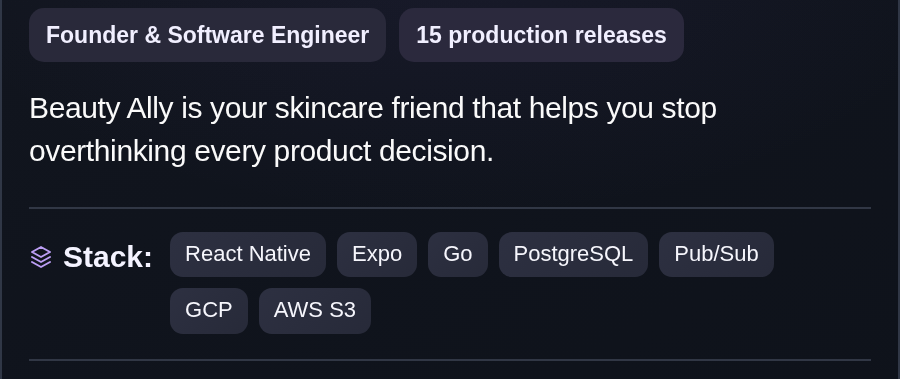
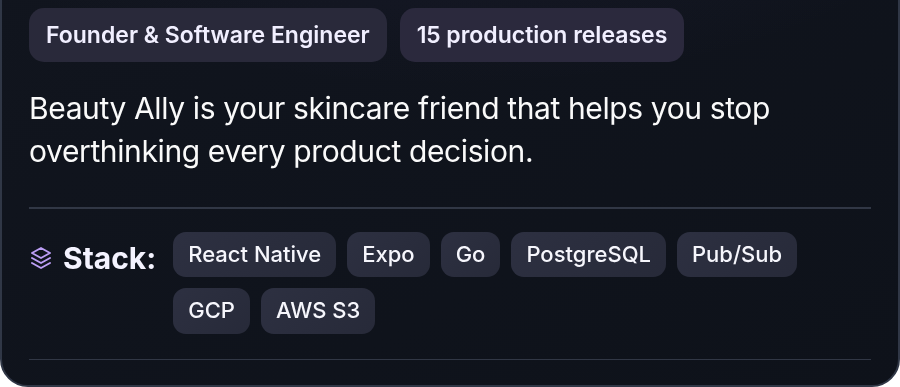
Add files via upload

diff --git a/README.md b/README.md
@@ -1,4 +1,4 @@
-<h3><picture><source media="(prefers-color-scheme: light)" srcset="assets/headings/intro-light.svg"><img src="assets/headings/intro-dark.svg" alt="Hey, I&#x27;m Alex 👋"></picture></h3>
+# Hey, I'm Alex 👋
 
 **Software Engineer · Go & TypeScript · Backend / Full-Stack**
 
@@ -7,30 +7,49 @@
 
 I'm a **product-minded software engineer** who enjoys building things end to end, from understanding the problem to designing the system, writing the code, and shipping it to real users.
 
-<h3><picture><source media="(prefers-color-scheme: light)" srcset="assets/headings/connect-light.svg"><img src="assets/headings/connect-dark.svg" alt="Connect with me"></picture></h3>
+## Connect with me
 
 <p align="center">
   <a href="mailto:alexprimak998@gmail.com"><img alt="Email" src="https://img.shields.io/badge/EMAIL-2563EB?style=for-the-badge&amp;logo=gmail&amp;logoColor=white"></a>
-  <a href="https://x.com/alexprimak24"><img alt="X / Twitter" src="https://img.shields.io/badge/TWITTER-000000?style=for-the-badge&amp;logo=x&amp;logoColor=white"></a>
-  <a href="https://www.linkedin.com/in/oleksandr-prymak-dev/"><img alt="LinkedIn" src="assets/icons/linkedin-button.svg" height="28"></a>
+  <a href="https://x.com/alexprimak24"><img alt="Twitter / X" src="https://img.shields.io/badge/TWITTER-000000?style=for-the-badge&amp;logo=x&amp;logoColor=white"></a>
+  <a href="https://www.linkedin.com/in/oleksandr-prymak-dev/"><img alt="LinkedIn" src="https://img.shields.io/badge/LINKEDIN-0A66C2?style=for-the-badge"></a>
   <a href="https://youtube.com/@alexprimak993"><img alt="YouTube" src="https://img.shields.io/badge/YOUTUBE-FF0033?style=for-the-badge&amp;logo=youtube&amp;logoColor=white"></a>
 </p>
 
-<h3><picture><source media="(prefers-color-scheme: light)" srcset="assets/headings/featured-light.svg"><img src="assets/headings/featured-dark.svg" alt="Featured Projects"></picture></h3>
+## Featured Projects
 
-<!-- Project preview/name and each button are independently clickable. Cards use tiled image strips to avoid GitHub HTML table borders. -->
+<!-- Preview images and product title strips have separate links. Details are plain images. -->
 <p align="center">
-<a href="https://apps.apple.com/ua/app/beauty-ally/id6749963321"><img src="assets/cards/beauty-ally-preview-and-name.png" width="48%" align="top" alt="Beauty Ally - App Store"></a><img src="assets/cards/gap.png" width="3%" align="top" alt=""><a href="assets/resheno/landing.jpg"><img src="assets/cards/resheno-preview-and-name.png" width="48%" align="top" alt="Resheno - preview"></a><br>
-<img src="assets/cards/beauty-ally-details.png" width="48%" align="top" alt="Beauty Ally: 15 production releases; skincare companion. Stack: React Native, Expo, Go, PostgreSQL, Pub/Sub, GCP, AWS S3"><img src="assets/cards/gap.png" width="3%" align="top" alt=""><img src="assets/cards/resheno-details.png" width="48%" align="top" alt="Resheno: pre-launch marketplace. Stack: Go/chi, Next.js, TypeScript, PostgreSQL, GCP, AWS S3"><br>
-<a href="https://apps.apple.com/ua/app/beauty-ally/id6749963321"><img src="assets/cards/beauty-ally-action-r1-c1.png" width="16%" align="top" alt="beauty-ally: App Store"></a><a href="https://play.google.com/store/apps/details?id=com.sycrafted.beautyai"><img src="assets/cards/beauty-ally-action-r1-c2.png" width="16%" align="top" alt="beauty-ally: Google Play"></a><a href="https://github.com/alexprimak24/beauty-ally-mobile"><img src="assets/cards/beauty-ally-action-r1-c3.png" width="16%" align="top" alt="beauty-ally: Source"></a><img src="assets/cards/gap.png" width="3%" align="top" alt=""><a href="assets/resheno/landing.jpg"><img src="assets/cards/resheno-action-r1-c1.png" width="16%" align="top" alt="resheno: Screenshot 1"></a><a href="assets/resheno/admin-dashboard.jpg"><img src="assets/cards/resheno-action-r1-c2.png" width="16%" align="top" alt="resheno: Screenshot 2"></a><a href="assets/resheno/professionals.jpg"><img src="assets/cards/resheno-action-r1-c3.png" width="16%" align="top" alt="resheno: Screenshot 3"></a><br>
-<a href="https://www.tiktok.com/@yourbeautyally"><img src="assets/cards/beauty-ally-action-r2-c1.png" width="16%" align="top" alt="beauty-ally: TikTok"></a><a href="https://www.youtube.com/@yourbeautyally"><img src="assets/cards/beauty-ally-action-r2-c2.png" width="16%" align="top" alt="beauty-ally: YouTube"></a><a href="https://www.instagram.com/yourbeautyally/"><img src="assets/cards/beauty-ally-action-r2-c3.png" width="16%" align="top" alt="beauty-ally: Instagram"></a><img src="assets/cards/gap.png" width="3%" align="top" alt=""><a href="assets/resheno/professional-profile.jpg"><img src="assets/cards/resheno-action-r2-c1.png" width="16%" align="top" alt="resheno: Screenshot 4"></a><a href="assets/resheno/account-dashboard.jpg"><img src="assets/cards/resheno-action-r2-c2.png" width="16%" align="top" alt="resheno: Screenshot 5"></a><img src="assets/cards/resheno-action-r2-c3.png" width="16%" align="top" alt="resheno: card background"><br>
+  <a href="https://apps.apple.com/ua/app/beauty-ally/id6749963321"><img src="assets/cards/beauty-ally-preview.png" width="48%" align="top" alt="Beauty Ally app preview - App Store"></a><img src="assets/cards/space.png" width="3%" height="1" align="top" alt=""><a href="assets/resheno/landing.jpg"><img src="assets/cards/resheno-preview.png" width="48%" align="top" alt="Resheno landing page preview"></a><br>
+  <img src="assets/cards/beauty-ally-name-left.png" width="1%" align="top" alt=""><a href="https://apps.apple.com/ua/app/beauty-ally/id6749963321"><img src="assets/cards/beauty-ally-name-text.png" width="17%" align="top" alt="Beauty Ally"></a><img src="assets/cards/beauty-ally-name-right.png" width="30%" align="top" alt=""><img src="assets/cards/space.png" width="3%" height="1" align="top" alt=""><img src="assets/cards/resheno-name-left.png" width="1%" align="top" alt=""><a href="assets/resheno/landing.jpg"><img src="assets/cards/resheno-name-text.png" width="13%" align="top" alt="Resheno"></a><img src="assets/cards/resheno-name-right.png" width="34%" align="top" alt=""><br>
+  <img src="assets/cards/beauty-ally-details.png" width="48%" align="top" alt="Founder and Software Engineer. 15 production releases. Beauty Ally is your skincare friend that helps you stop overthinking every product decision. Stack: React Native, Expo, Go, PostgreSQL, Pub/Sub, GCP, AWS S3"><img src="assets/cards/space.png" width="3%" height="1" align="top" alt=""><img src="assets/cards/resheno-details.png" width="48%" align="top" alt="Technical Co-Founder. Pre-launch MVP. Home-services marketplace connecting customers and professionals in Bulgaria. Stack: Go/chi, Next.js, TypeScript, PostgreSQL, GCP, AWS S3">
 </p>
 
-<h3><picture><source media="(prefers-color-scheme: light)" srcset="assets/headings/open-source-light.svg"><img src="assets/headings/open-source-dark.svg" alt="Open Source"></picture></h3>
+<!-- These are the original neutral GitHub badge links, not links baked into the card images. -->
+<p align="center">
+  <strong>Beauty Ally</strong><br>
+  <a href="https://apps.apple.com/ua/app/beauty-ally/id6749963321"><img alt="App Store" src="https://img.shields.io/badge/App_Store-30363D?style=flat-square&amp;logo=apple&amp;logoColor=white"></a>
+  <a href="https://play.google.com/store/apps/details?id=com.sycrafted.beautyai"><img alt="Google Play" src="https://img.shields.io/badge/Google_Play-30363D?style=flat-square&amp;logo=googleplay&amp;logoColor=white"></a>
+  <a href="https://github.com/alexprimak24/beauty-ally-mobile"><img alt="Source code" src="https://img.shields.io/badge/Source-30363D?style=flat-square&amp;logo=github&amp;logoColor=white"></a><br>
+  <a href="https://www.tiktok.com/@yourbeautyally"><img alt="TikTok" src="https://img.shields.io/badge/TikTok-30363D?style=flat-square&amp;logo=tiktok&amp;logoColor=white" height="17"></a>
+  <a href="https://www.youtube.com/@yourbeautyally"><img alt="YouTube" src="https://img.shields.io/badge/YouTube-30363D?style=flat-square&amp;logo=youtube&amp;logoColor=white" height="17"></a>
+  <a href="https://www.instagram.com/yourbeautyally/"><img alt="Instagram" src="https://img.shields.io/badge/Instagram-30363D?style=flat-square&amp;logo=instagram&amp;logoColor=white" height="17"></a>
+</p>
 
-- <a href="https://github.com/FuelLabs/sway-playground/pull/83"><img src="assets/icons/pr-merged.svg" alt="Merged pull request" width="18" height="18"></a> **[Fuel Labs - Sway Playground - Dark Theme (PR #83)](https://github.com/FuelLabs/sway-playground/pull/83)** - added shared theme state, system-preference detection, and dark-theme support for the editor and UI.
+<p align="center">
+  <strong>Resheno screenshots</strong><br>
+  <a href="assets/resheno/landing.jpg"><img alt="Screenshot 1" src="https://img.shields.io/badge/Screenshot_1-30363D?style=flat-square&amp;logo=googlephotos&amp;logoColor=white"></a>
+  <a href="assets/resheno/admin-dashboard.jpg"><img alt="Screenshot 2" src="https://img.shields.io/badge/Screenshot_2-30363D?style=flat-square&amp;logo=googlephotos&amp;logoColor=white"></a>
+  <a href="assets/resheno/professionals.jpg"><img alt="Screenshot 3" src="https://img.shields.io/badge/Screenshot_3-30363D?style=flat-square&amp;logo=googlephotos&amp;logoColor=white"></a>
+  <a href="assets/resheno/professional-profile.jpg"><img alt="Screenshot 4" src="https://img.shields.io/badge/Screenshot_4-30363D?style=flat-square&amp;logo=googlephotos&amp;logoColor=white"></a>
+  <a href="assets/resheno/account-dashboard.jpg"><img alt="Screenshot 5" src="https://img.shields.io/badge/Screenshot_5-30363D?style=flat-square&amp;logo=googlephotos&amp;logoColor=white"></a>
+</p>
 
-<h3><picture><source media="(prefers-color-scheme: light)" srcset="assets/headings/tech-stack-light.svg"><img src="assets/headings/tech-stack-dark.svg" alt="Tech Stack"></picture></h3>
+## Open Source
+
+- <a href="https://github.com/FuelLabs/sway-playground/pull/83"><img src="assets/icons/git-merge-purple.png" alt="Merged pull request" width="18" height="18"></a> **[Fuel Labs - Sway Playground - Dark Theme (PR #83)](https://github.com/FuelLabs/sway-playground/pull/83)** - added shared theme state, system-preference detection, and dark-theme support for the editor and UI.
+
+## Tech Stack
 
 ![Go](https://img.shields.io/badge/Go-00ADD8?style=flat-square&logo=go&logoColor=white)
 ![TypeScript](https://img.shields.io/badge/TypeScript-3178C6?style=flat-square&logo=typescript&logoColor=white)
